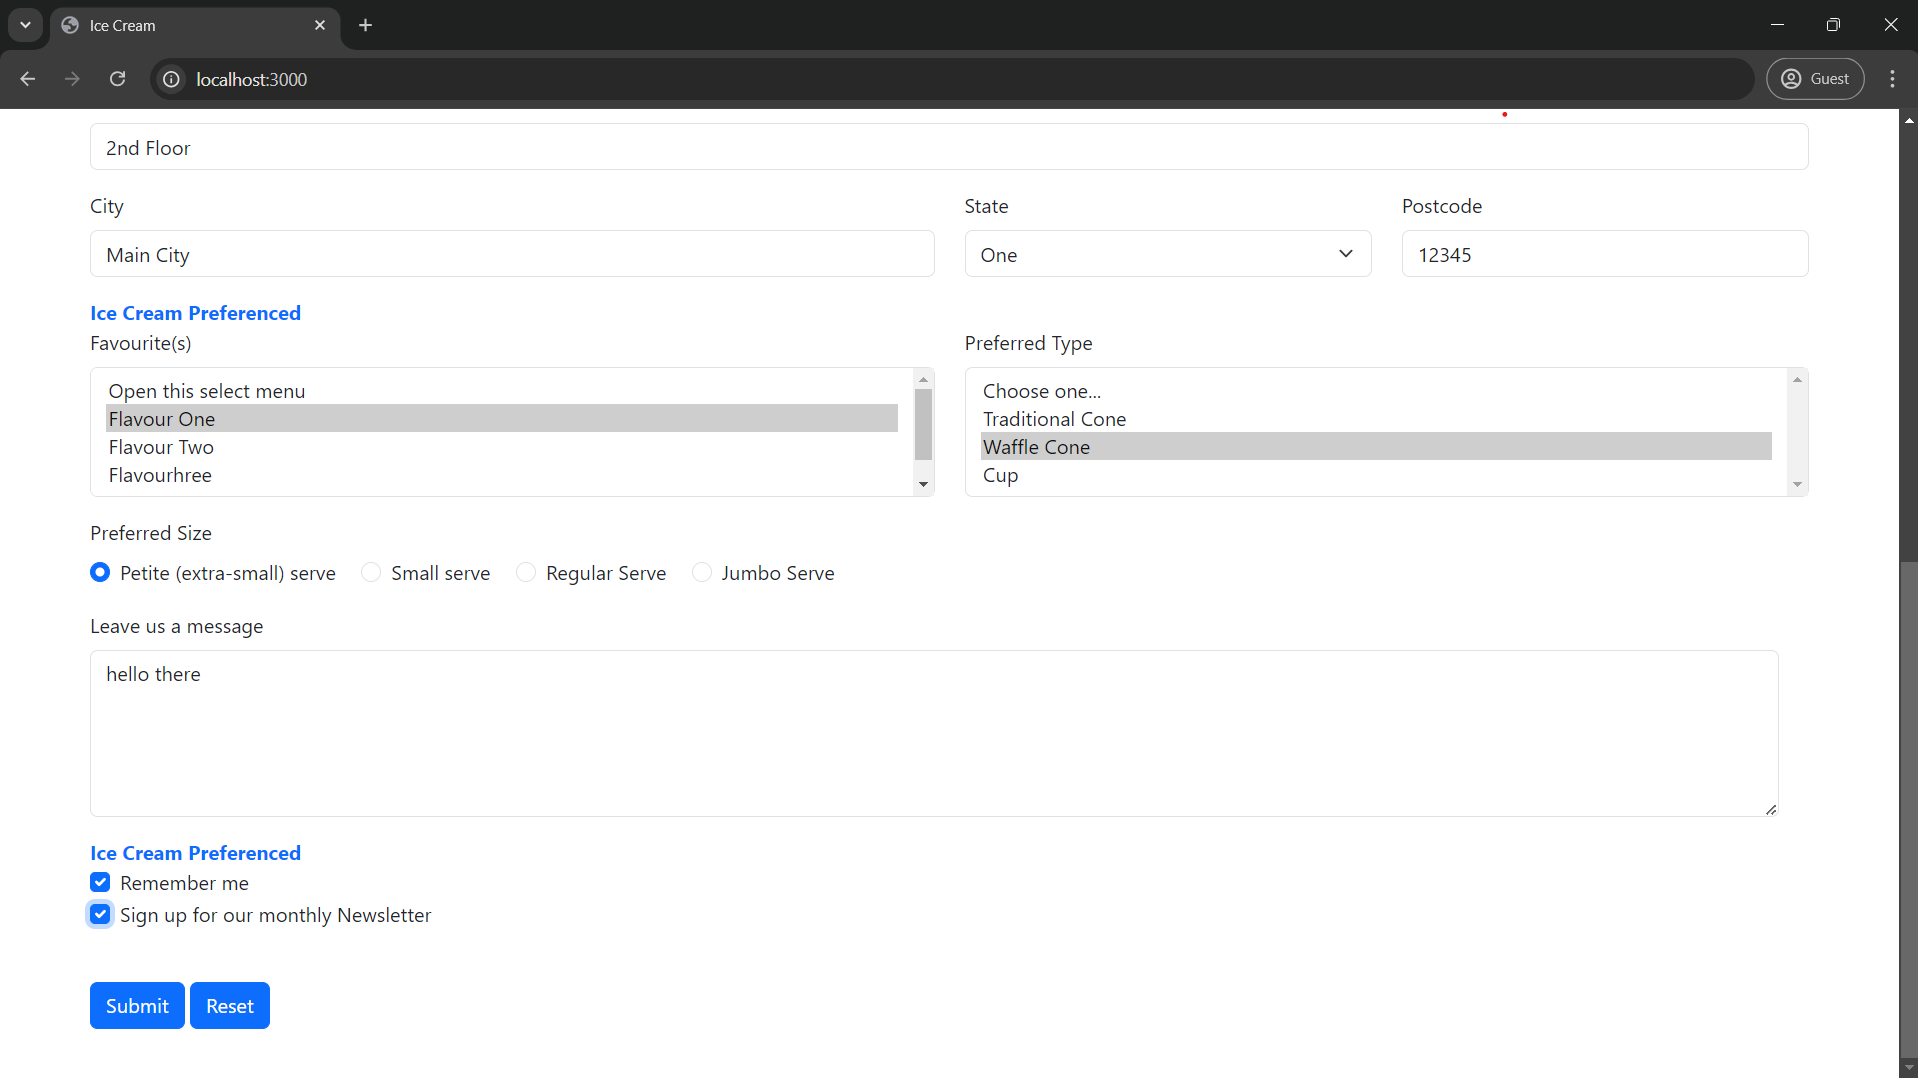
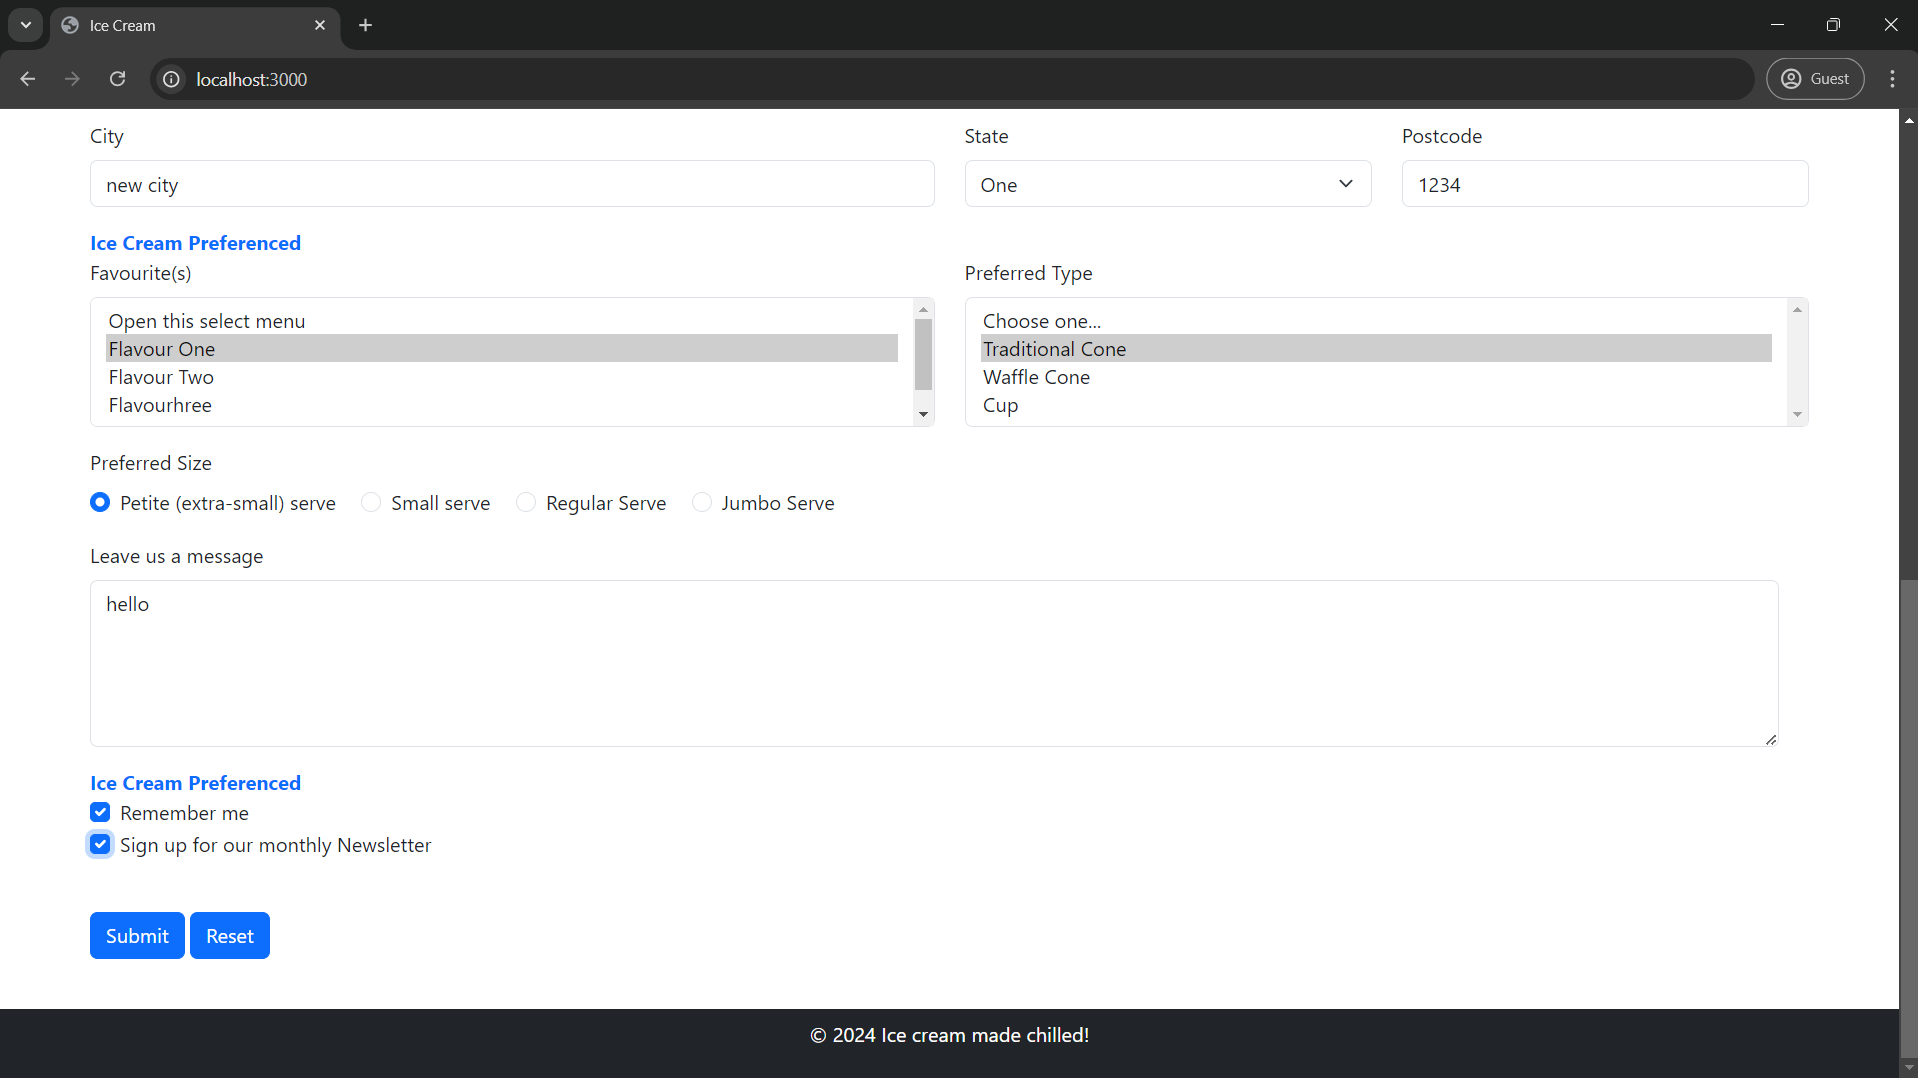
5.1(update), 6.1, 7.1, 7,2

diff --git a/Task_7.1P/index.html b/Task_7.1P/index.html
@@ -1,0 +1,123 @@
+<!doctype html>
+<html lang="en">
+
+<head>
+    <!-- Required meta tags -->
+    <meta charset="utf-8">
+    <meta name="viewport" content="width=device-width, initial-scale=1, shrink-to-fit=no">
+
+    <!-- Bootstrap CSS -->
+    <link href="https://cdn.jsdelivr.net/npm/bootstrap@5.3.3/dist/css/bootstrap.min.css" rel="stylesheet"
+        integrity="sha384-QWTKZyjpPEjISv5WaRU9OFeRpok6YctnYmDr5pNlyT2bRjXh0JMhjY6hW+ALEwIH" crossorigin="anonymous">
+
+    <!-- You will need to create this new JS file and place it in
+    the same directory as this HTML file (i.e., public_html) -->
+
+    <!-- <script src="icecreamTshirtText.js"></script> -->
+
+    <title>Ice Cream T-Shirt Printing</title>
+</head>
+
+<body>
+    <header>
+        <div class="container-fluid bg-info-subtle mb-4">
+            <div class="col-sm-8 mx-auto text-center py-2">
+                <h1 class="display-4">World of Ice Cream</h1>
+                <p class="lead ">Putting text on our Ice Cream T-Shirts</p>
+            </div>
+        </div>
+    </header>
+
+    <main>
+        <div class="container">
+            <h3>Ice Cream T-Shirt Printing - Text Processing</h3>
+
+            <p>
+                Please enter into the text-box below, what you would like
+                displayed on your T-Shirt. Then click the `Process Text` button
+                to show some interesting points about your text.
+            </p>
+
+            <form>
+                <label for="exampleFormControlTextarea1" class="form-label">
+                    Example textarea:
+                </label>
+                <textarea class="form-control" id="exampleFormControlTextarea1" rows="3" required></textarea>
+
+                <label for="Keyword" class="form-label mt-3 ">
+                    Keyword to search for:
+                </label>
+                <select class="form-select form-select" id="searchWord" aria-label="Large select example"
+                    name="Keyword">
+                    <!-- <option value="">Keyword to search for...</option> -->
+                    <option value="Ice Cream">Ice Cream</option>
+                    <option value="Love">Love</option>
+                    <option value="Fun">Fun</option>
+                </select>
+
+                <label for="customRange2" class="form-label mt-3">
+                    Number of characters in sub string (between 10 and
+                    50):
+                </label>
+                <input class="form-control" type="number" id="numberCharacters" name="customRange2" min="10" max="50"
+                    value="10">
+
+                <!-- Here are the BUTTON for processing the input using the `onclick` event -->
+                <input class="btn btn-primary my-3" type="button" onclick="processText()" value="Process Text">
+                <input class="btn btn-secondary my-3" type="reset" onclick="clearText()" value="Reset Text">
+            </form>
+
+            <!-- The table below has the fields identified using the `id` attributes -->
+            <table class="table table-info table-striped-columns table-bordered mt-3">
+                <thead>
+                    <th class="col-3">String operation...</th>
+                    <th class="col-9">Result obtained...</th>
+                </thead>
+                <tbody>
+                    <tr>
+                        <td class="col-3">Length of string (# characters)</td>
+                        <td class="col-9" id="strResult1"></td>
+                    </tr>
+                    <tr>
+                        <td class="col-3">String in all UPPERCASE</td>
+                        <td class="col-9" id="strResult2"></td>
+                    </tr>
+                    <tr>
+                        <td class="col-3">String in all lowercase</td>
+                        <td class="col-9" id="strResult3"></td>
+                    </tr>
+                    <tr>
+                        <td class="col-3">First occurance of '<em id="searchTerm" class="text-primary">???</em>'</td>
+                        <td class="col-9" id="strResult4"></td>
+                    </tr>
+                    <tr>
+                        <td class="col-3">First <em class="text-primary" id="numberSubstringCharactersStart">_</em>
+                            characters of string</td>
+                        <td class="col-9" id="strResult5"></td>
+                    </tr>
+                    <tr>
+                        <td class="col-3">Last <em class="text-primary" id="numberSubstringCharactersEnd">_</em>
+                            characters of string</td>
+                        <td class="col-9" id="strResult6"></td>
+                    </tr>
+                </tbody>
+            </table>
+        </div>
+    </main>
+
+
+    <footer class="container-fluid text-center mt-4 p-2 bg-dark text-white">
+        <p>&copy; 2024 Ice Cream made chilled!</p>
+    </footer>
+
+
+    <!-- Optional JavaScript -->
+    <!-- Bootstrap Bundle with Popper -->
+    <script src="https://cdn.jsdelivr.net/npm/bootstrap@5.3.3/dist/js/bootstrap.bundle.min.js"
+        integrity="sha384-YvpcrYf0tY3lHB60NNkmXc5s9fDVZLESaAA55NDzOxhy9GkcIdslK1eN7N6jIeHz"
+        crossorigin="anonymous"></script>
+
+    <script src="functions.js"></script>
+</body>
+
+</html>

diff --git a/Task_6.1P/Task6-1P.html b/Task_6.1P/Task6-1P.html
@@ -1,0 +1,78 @@
+<!doctype html>
+<html lang="en">
+
+<head>
+    <!-- Required meta tags -->
+    <meta charset="utf-8">
+    <meta name="viewport" content="width=device-width, initial-scale=1, shrink-to-fit=no">
+
+    <!-- Bootstrap CSS -->
+    <link href="https://cdn.jsdelivr.net/npm/bootstrap@5.3.3/dist/css/bootstrap.min.css" rel="stylesheet"
+        integrity="sha384-QWTKZyjpPEjISv5WaRU9OFeRpok6YctnYmDr5pNlyT2bRjXh0JMhjY6hW+ALEwIH" crossorigin="anonymous">
+
+    <!-- You will need to create this new JS file and place it in
+    the same directory as this HTML file (i.e., public_html) -->
+    <script src="icecreamList.js"></script>
+
+    <title>Ice Cream Top 10</title>
+</head>
+
+<body>
+    <header>
+        <div class="container-fluid bg-info-subtle mb-4">
+            <div class="col-sm-8 mx-auto text-center py-2">
+                <h1 class="display-4">World of Ice Cream</h1>
+                <p class="lead ">The top 10 favourite Ice Creams</p>
+            </div>
+        </div>
+    </header>
+
+    <main>
+        <div class="container">
+            <h3>Jumpstart Javascript Task</h3>
+            <p>
+                Javascript is an important part of modern web development. In this example
+                it is used to dynamically create content and insert it into the web pages' DOM (Document Object Model).
+                Here, the content created and displayed is a list of the Top 10 Ice Cream flavours (in the US) as found here
+                <a href="https://www.delish.com/food/g45129506/most-popular-ice-cream-flavors-america/"
+                    target="_blank">https://www.delish.com/food/g45129506/most-popular-ice-cream-flavors-america/</a>.
+            </p>
+            <p>
+                Here are the <strong>Top 10 Ice Cream Flavours</strong>:
+            </p>
+
+            <!-- This is the block of the webpage that is to be updated dynamically -->
+            <div id="top_icecreams">
+                <p><em>List is empty</em></p>
+            </div>
+
+            <p>
+                Use the button below to call the javascript function
+                that creates the <em>Top-10 Ice Cream List</em> and displays it above.
+            </p>
+
+            <!-- This is the Button that handles the `onlcick` event and
+                calls the javascript function `buildIcecreamList()` located in
+                the file `icecreamList.js` -->
+            <input class="btn btn-primary" type="button" onclick="buildIcecreamList()"
+                value="Create and Display Top 10 Ice Cream List">
+            <!-- <input class="btn btn-primary" type="button" onclick="removeIcecreamList()"
+                value="Reset List"> -->
+
+        </div>
+    </main>
+
+    <footer class="container-fluid text-center mt-4 p-2 bg-dark text-white">
+        <p>&copy; 2024 Ice Cream made chilled!</p>
+    </footer>
+
+    <!-- Optional JavaScript -->
+    <!-- Bootstrap Bundle with Popper -->
+    <script src="https://cdn.jsdelivr.net/npm/bootstrap@5.3.3/dist/js/bootstrap.bundle.min.js"
+        integrity="sha384-YvpcrYf0tY3lHB60NNkmXc5s9fDVZLESaAA55NDzOxhy9GkcIdslK1eN7N6jIeHz"
+        crossorigin="anonymous"></script>
+
+    <script src="icecreamList.js"></script>
+</body>
+
+</html>

diff --git a/Task_7.1P/functions.js b/Task_7.1P/functions.js
@@ -1,0 +1,35 @@
+function processText(){
+
+    const string = document.getElementById('exampleFormControlTextarea1').value.trim();
+    const search_word = document.getElementById('searchWord').value;
+    const number = document.getElementById('numberCharacters').value;
+    
+    if( string == "" || search_word == "" ) {
+        alert('Ensure you input a value in both fields!');
+        } else {
+            const lower_search_word = search_word.toLowerCase();
+            const lenght = string.length;
+            const upper = string.toUpperCase();
+            const lower = string.toLowerCase();
+            const fist_occurance = lower.indexOf(lower_search_word);
+            const first_num_chars = string.slice(0, number);
+            const last_num_chars = string.slice(-number);
+
+            document.getElementById('searchTerm').textContent = search_word;
+            document.getElementById('numberSubstringCharactersStart').textContent = number;
+            document.getElementById('numberSubstringCharactersEnd').textContent = number;
+
+            document.getElementById('strResult1').textContent = lenght;
+            document.getElementById('strResult2').textContent = upper;
+            document.getElementById('strResult3').textContent = lower;
+            document.getElementById('strResult4').textContent = fist_occurance;
+            document.getElementById('strResult5').textContent = `${first_num_chars} ...`;
+            document.getElementById('strResult6').textContent = `...${last_num_chars}`;
+        }
+}
+
+function clearText(){
+    document.getElementById('exampleFormControlTextarea1').value = '';
+    document.getElementById('searchWord').value = '';
+    document.getElementById('numberCharacters').value = '';
+}

diff --git a/Task_7.2P/index.html b/Task_7.2P/index.html
@@ -1,0 +1,34 @@
+<!DOCTYPE html>
+<html lang="en">
+<head>
+    <meta charset="UTF-8">
+    <meta name="viewport" content="width=device-width, initial-scale=1.0">
+    <title>Ice Cream</title>
+    <link href="https://cdn.jsdelivr.net/npm/bootstrap@5.3.0/dist/css/bootstrap.min.css" rel="stylesheet">
+</head>
+<header>
+    <div class="container-fluid bg-info-subtle">
+        <div class="col-sm-12 mx-auto text-center py-4">
+            <p class="fs-1 fw-light">World of Ice Cream</p>
+            <p class="fw-light">Ice cream's popularity lies in its creamy texture, refreshing taste and diverse <br>
+                flavours, making it a beloved dessert for all occasions, fostering social connections <br>
+                and nostalgic memories.
+            </p>
+        </div>
+    </div>
+</header>
+<body>
+    <!-- text-info-emphasis mw-100 text-center p-4 fw-light -->
+    <section class="mx-5 pt-3" id="Top">
+        <h3>Ice Cream game</h3>
+        <p></p>
+        <div class="d-grid gap-2 col-6 mx-auto">
+            <input class="btn btn-primary btn-lg mb-3 mx-auto" type="button" id="btn-start" value="Click to Start" onclick="show_date_time()">
+        </div>
+        <div id="content" onmouseover="add_colour()" onmouseout="remove_colour()"></div>
+        <div class="container-fluid p-2 bg-dark text-white text-center">
+            <p>&copy; 2024 A webpage footer with important info. </p>
+        </div>
+    </section>
+    <script src="datetime.js"></script>
+</body>

diff --git a/Task_7.2P/datetime.js b/Task_7.2P/datetime.js
@@ -1,0 +1,36 @@
+let count = 0
+function remove_colour(){
+    const content = document.getElementById('content');
+    content.style.backgroundColor = 'white';
+}
+function add_colour(){
+    const content = document.getElementById('content');
+    content.style.backgroundColor = 'Violet';
+}
+function show_date_time(){
+    count += 1;
+    const btn = document.getElementById('btn-start');
+    const content = document.getElementById('content');
+    if(count>5){
+        content.style.display = 'none';
+        btn.value = 'Click to Re-start';
+        count = 0 ;
+    } else {
+        content.style.display = 'block';
+        btn.value = `Try again... pressed ${count} times`;
+
+        const now = new Date();
+        let date = now.toDateString();
+        let time = now.toTimeString().split(' ')[0];
+
+        content.innerHTML = '';
+        content.innerHTML = `
+            <h3>Well done, you clicked the button!</h3>
+            <ul>
+                <li>At time:<i> ${time}</i></li>
+                <li>On date:<i> ${date}</i></li>
+            </ul>
+            <h5>Move your cursor/mouse over this div element to change the background colour to violet</h5>
+        `;
+    }
+}

diff --git a/Task_6.1P/icecreamList.js b/Task_6.1P/icecreamList.js
@@ -1,0 +1,25 @@
+const icecreamArray = [
+    "Vanilla",
+    "Chocolate",
+    "Cookies 'n Cream",
+    "Strawberry",
+    "Chocolate Chip",
+    "Mint Chocolate Chip",
+    "Chocolate Chip Cookie Dough",
+    "Butter Pecan",
+    "Birthday Cake",
+    "Moose Tracks"
+   ];
+   
+function buildIcecreamList(){
+    const div = document.getElementById('top_icecreams');
+    div.innerHTML = '';
+
+    const list = document.createElement('ol');
+    icecreamArray.forEach(item => {
+    const sub_list = document.createElement('li');
+    sub_list.textContent = item;
+    list.appendChild(sub_list);
+    });
+    div.appendChild(list);
+}

diff --git a/Task_5.1P/index.html b/Task_5.1P/index.html
@@ -166,4 +166,7 @@
         </div>
     </div>
     </div>
+    <div class="container-fluid p-2 bg-dark text-white text-center">
+        <p>&copy; 2024 Ice cream made chilled! </p>
+    </div>
 </body>
